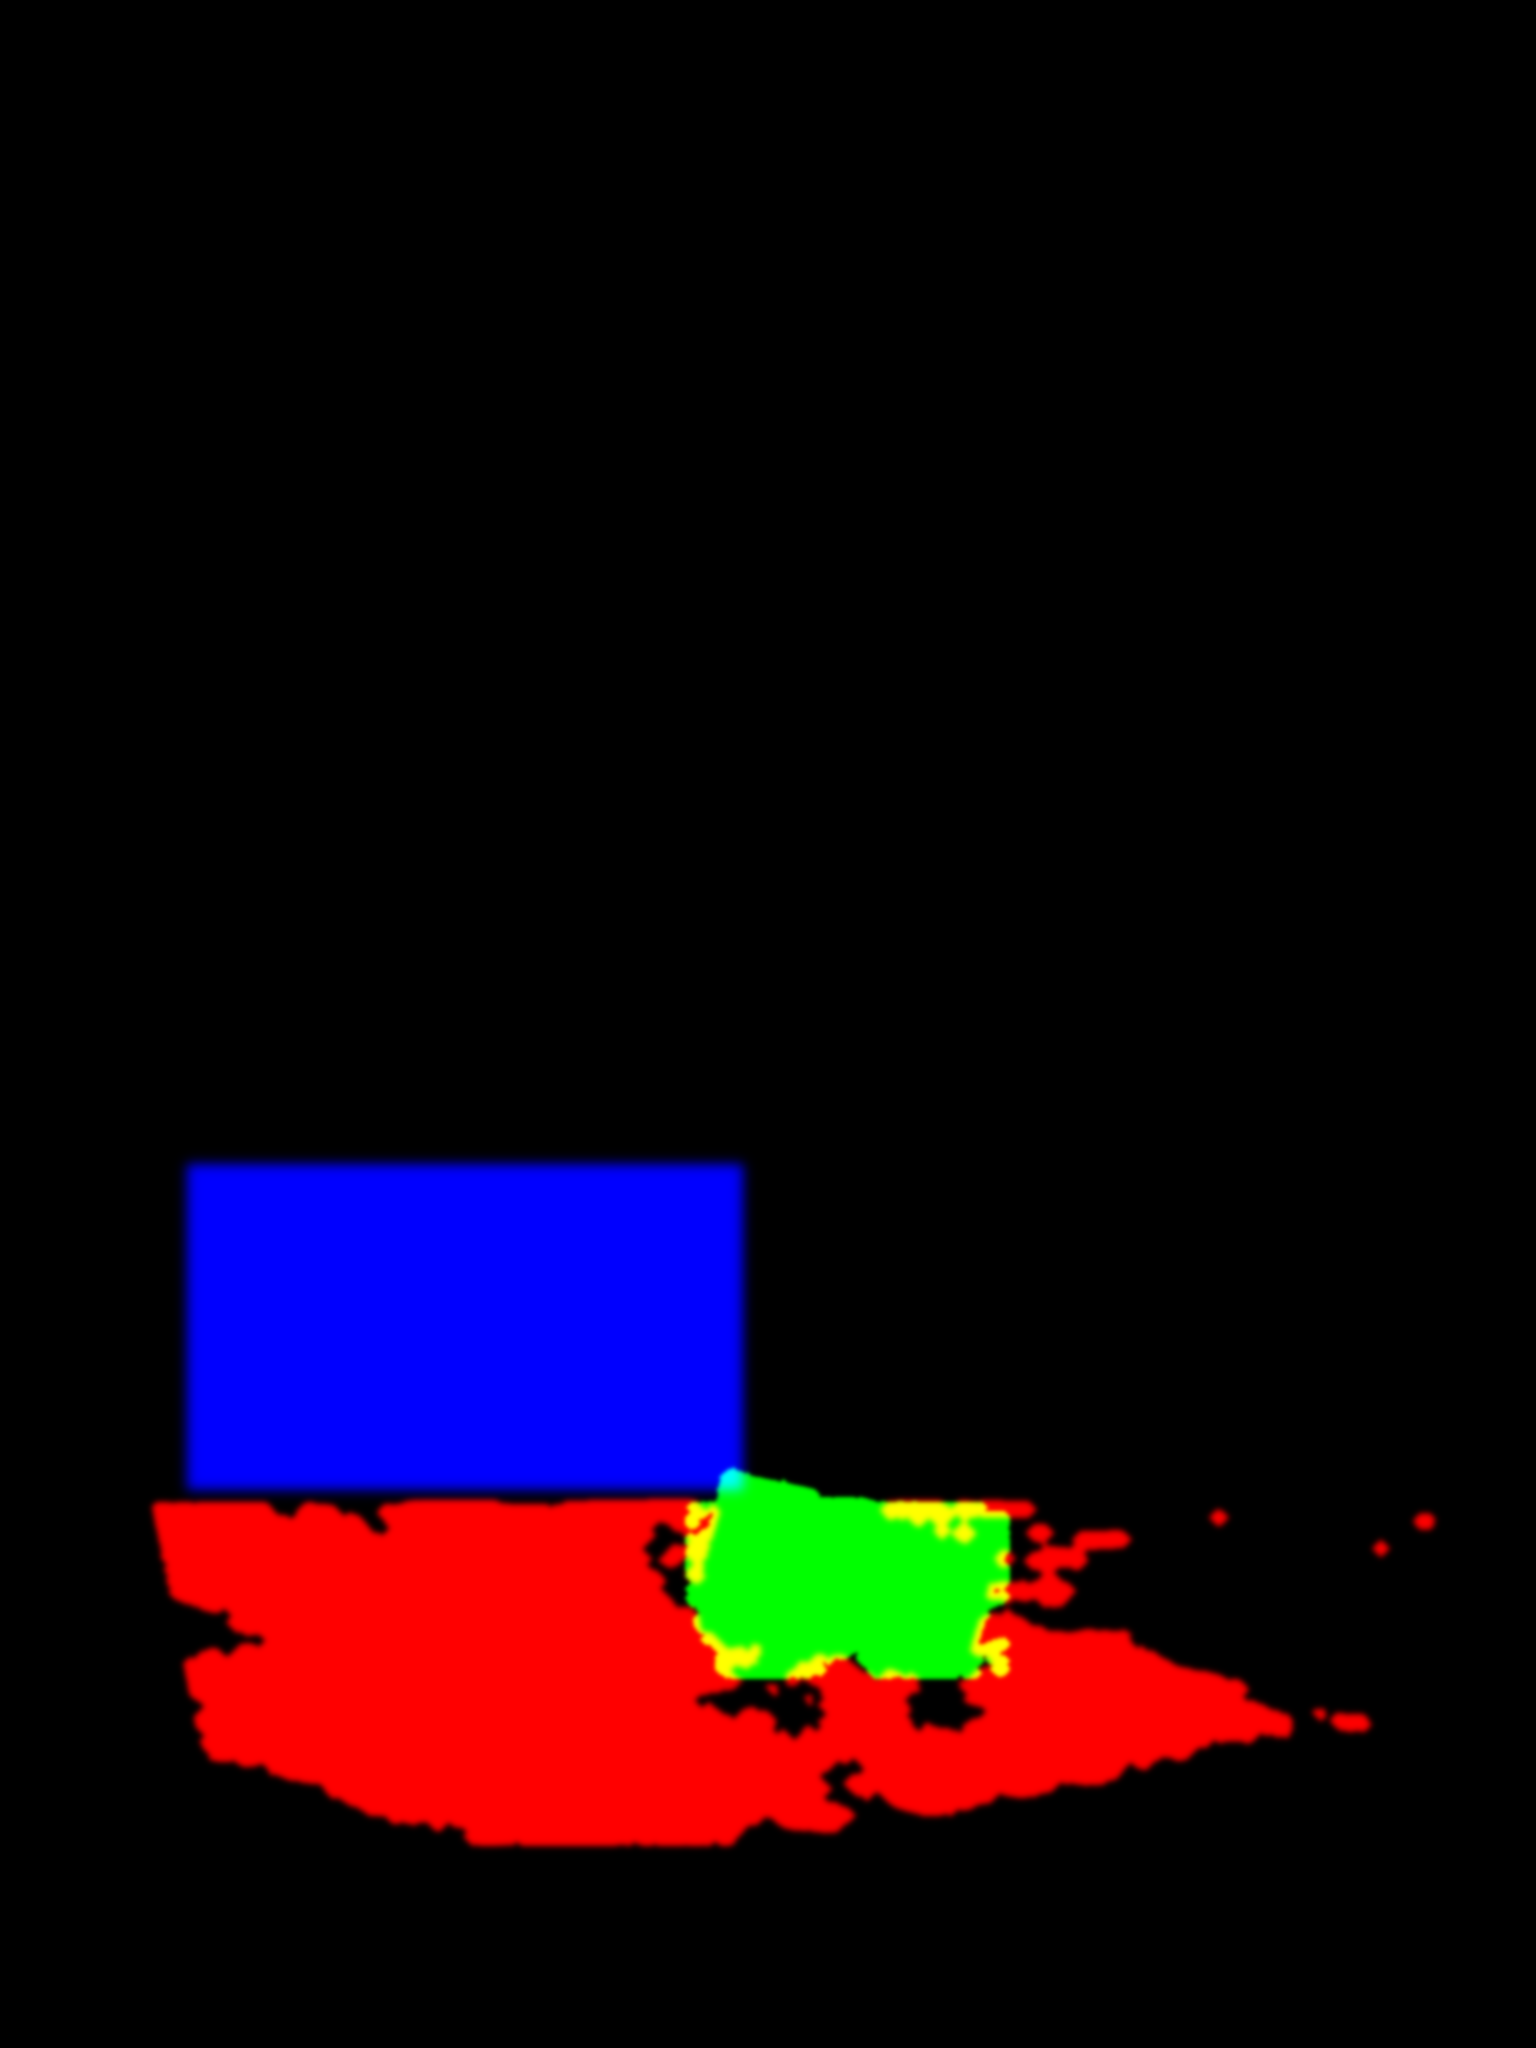
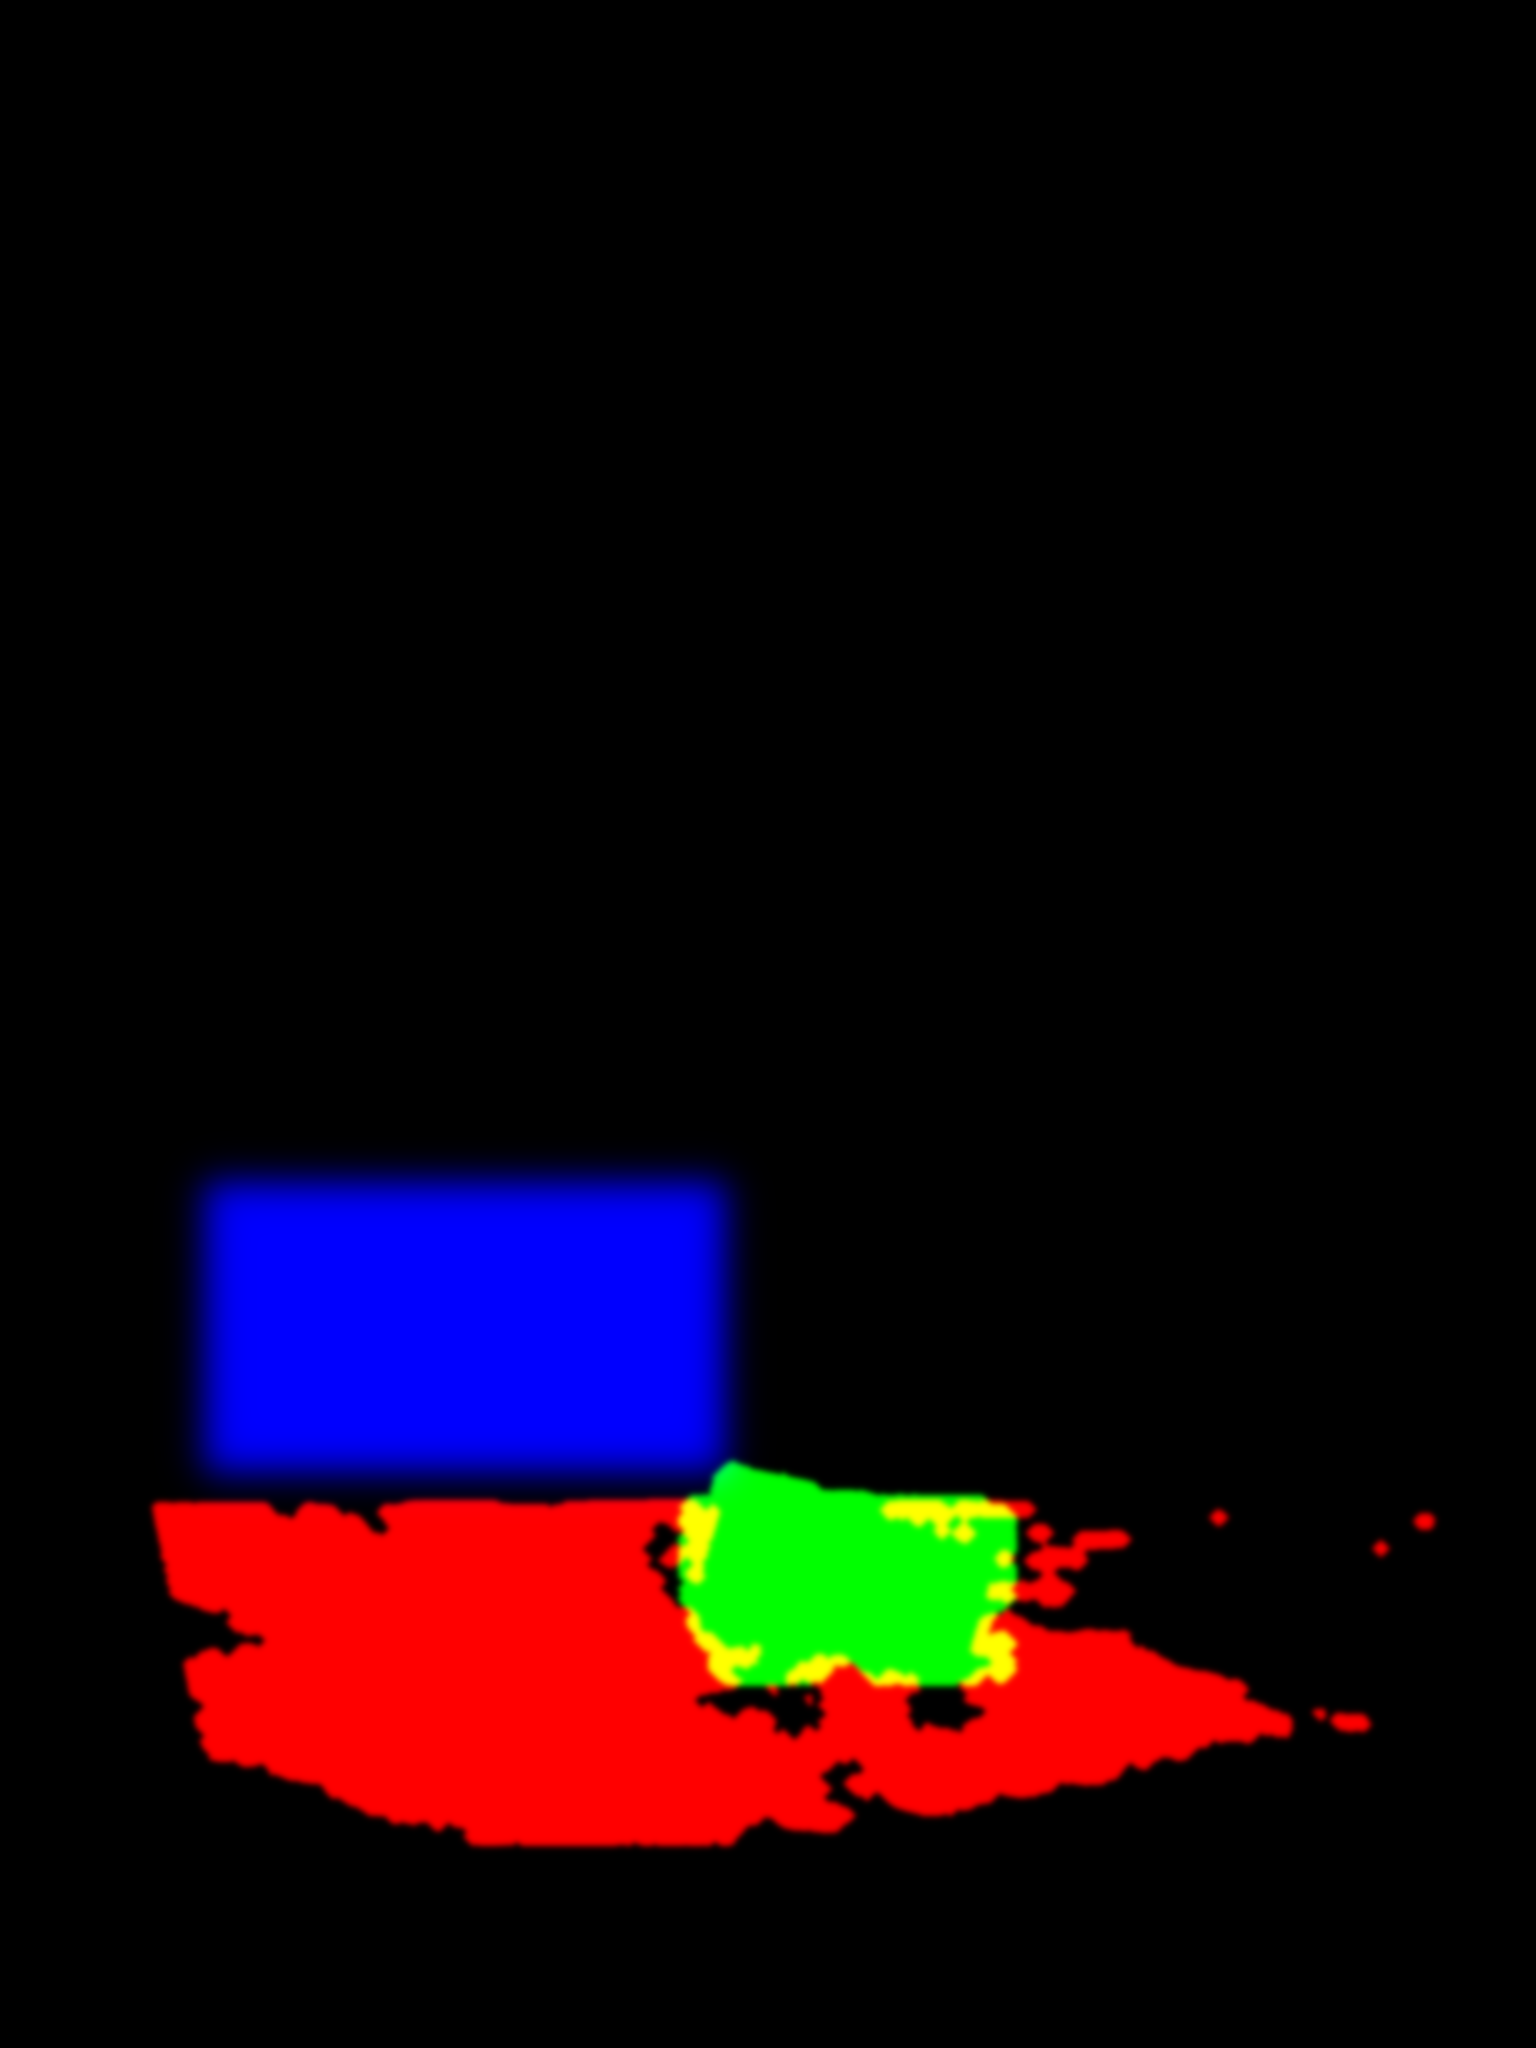
fix(theme): make water, floating and drift motion visible
Swells of about 4px rolling across the water, a 6px bob and 3 degree rock for floating things, and clouds drifting about 20px over fifty seconds. The floating and drift masks are wider so the larger motion leaves no edges behind.

Assisted-by: claude-code/claude-opus-5-5

Changed region(s): [[0.0938, 0.5625, 0.6875, 0.8438]]

diff --git a/src/themes/large-print/assets/js/motion.js b/src/themes/large-print/assets/js/motion.js
@@ -59,10 +59,10 @@
     "  vec3 m = texture2D(map, vec2(uv.x, uv.y * 0.5)).rgb;",
     "  vec3 n = texture2D(map, vec2(uv.x, 0.5 + uv.y * 0.5)).rgb;",
     "  vec2 src = px;",
-    // Water: a slow travelling ripple, mostly up and down.
-    "  src += n.r * vec2(0.9 * sin(t * 1.2 + px.y * 0.09 + px.x * 0.012), 1.8 * sin(t * 0.95 + px.x * 0.03 - px.y * 0.015));",
-    // Drift: the sky slides a few pixels one way, then back, over a minute and a half.
-    "  src.x -= n.b * 7.0 * sin(t * 0.07);",
+    // Water: swells rolling across, mostly up and down, with a little chop.
+    "  src += n.r * vec2(1.6 * sin(t * 0.9 + px.y * 0.06), 4.0 * sin(t * 1.1 - px.x * 0.022 + px.y * 0.035) + 1.2 * sin(t * 2.3 - px.x * 0.07));",
+    // Drift: the clouds slide one way, then back, over about fifty seconds.
+    "  src.x -= n.b * 22.0 * sin(t * 0.125);",
     // Floating things bob and rock about their middle.
     "  for (int i = 0; i < " + MAX.float + "; i++) {",
     "    if (i >= nFloat) break;",
@@ -70,8 +70,8 @@
     "    vec2 c = floatA[i].xy;",
     "    float f = float(i);",
     "    float inside = step(b.x - 16.0, px.x) * step(px.x, b.z + 16.0) * step(b.y - 16.0, px.y) * step(px.y, b.w + 16.0);",
-    "    float bob = floatA[i].z * 3.0 * sin(t * 0.8 + f * 1.9);",
-    "    float rock = floatA[i].z * 0.025 * sin(t * 0.6 + f);",
+    "    float bob = floatA[i].z * 6.0 * sin(t * 0.9 + f * 1.9);",
+    "    float rock = floatA[i].z * 0.05 * sin(t * 0.7 + f);",
     "    src = mix(src, c + rot(px - vec2(0.0, bob) - c, -rock), n.g * inside);",
     "  }",
     // Wind: sideways, in two slow waves under a gust.

diff --git a/scripts/motion-map/motion_map.py b/scripts/motion-map/motion_map.py
@@ -307,7 +307,8 @@ def main():
         floats.append({"center": [int(xs.mean()), int(ys.mean())],
                        "box": [int(xs.min()), int(ys.min()), int(xs.max()) + 1, int(ys.max()) + 1],
                        "amp": amp})
-        np.maximum(floating, soft(m, 5, 2), out=floating)
+        # Wide enough that a bob of 6px and a rock of 3 degrees stay inside.
+        np.maximum(floating, soft(m, 12, 3), out=floating)
 
     for comp, _ in parts(region["magenta"], 150):
         add_float(comp, 1.0)
@@ -323,13 +324,13 @@ def main():
             fail(f"nothing floating in box {fl['box']}")
         add_float(lab == 1 + np.argmax(nd.sum(m, lab, range(1, n + 1))), fl.get("amp", 1.0))
 
-    # Drift: the sky slides slowly, feathered so its edges do not tear.
+    # Drift: the sky slides slowly, feathered wide so its edges do not tear.
     drift = np.zeros((H, W))
     for d_ in spec.get("drift", []):
         m = box(d_["box"])
         for e in d_.get("exclude", []):
             m = m & ~box(e)
-        np.maximum(drift, nd.gaussian_filter(nd.binary_erosion(m, iterations=12).astype(float), 6), out=drift)
+        np.maximum(drift, nd.gaussian_filter(nd.binary_erosion(m, iterations=30).astype(float), 18), out=drift)
 
     for k, v in (("swing", swings), ("glow", glows), ("fall", spec.get("fall", [])), ("twinkle", twinkle), ("float", floats)):
         if len(v) > MAX[k]:
